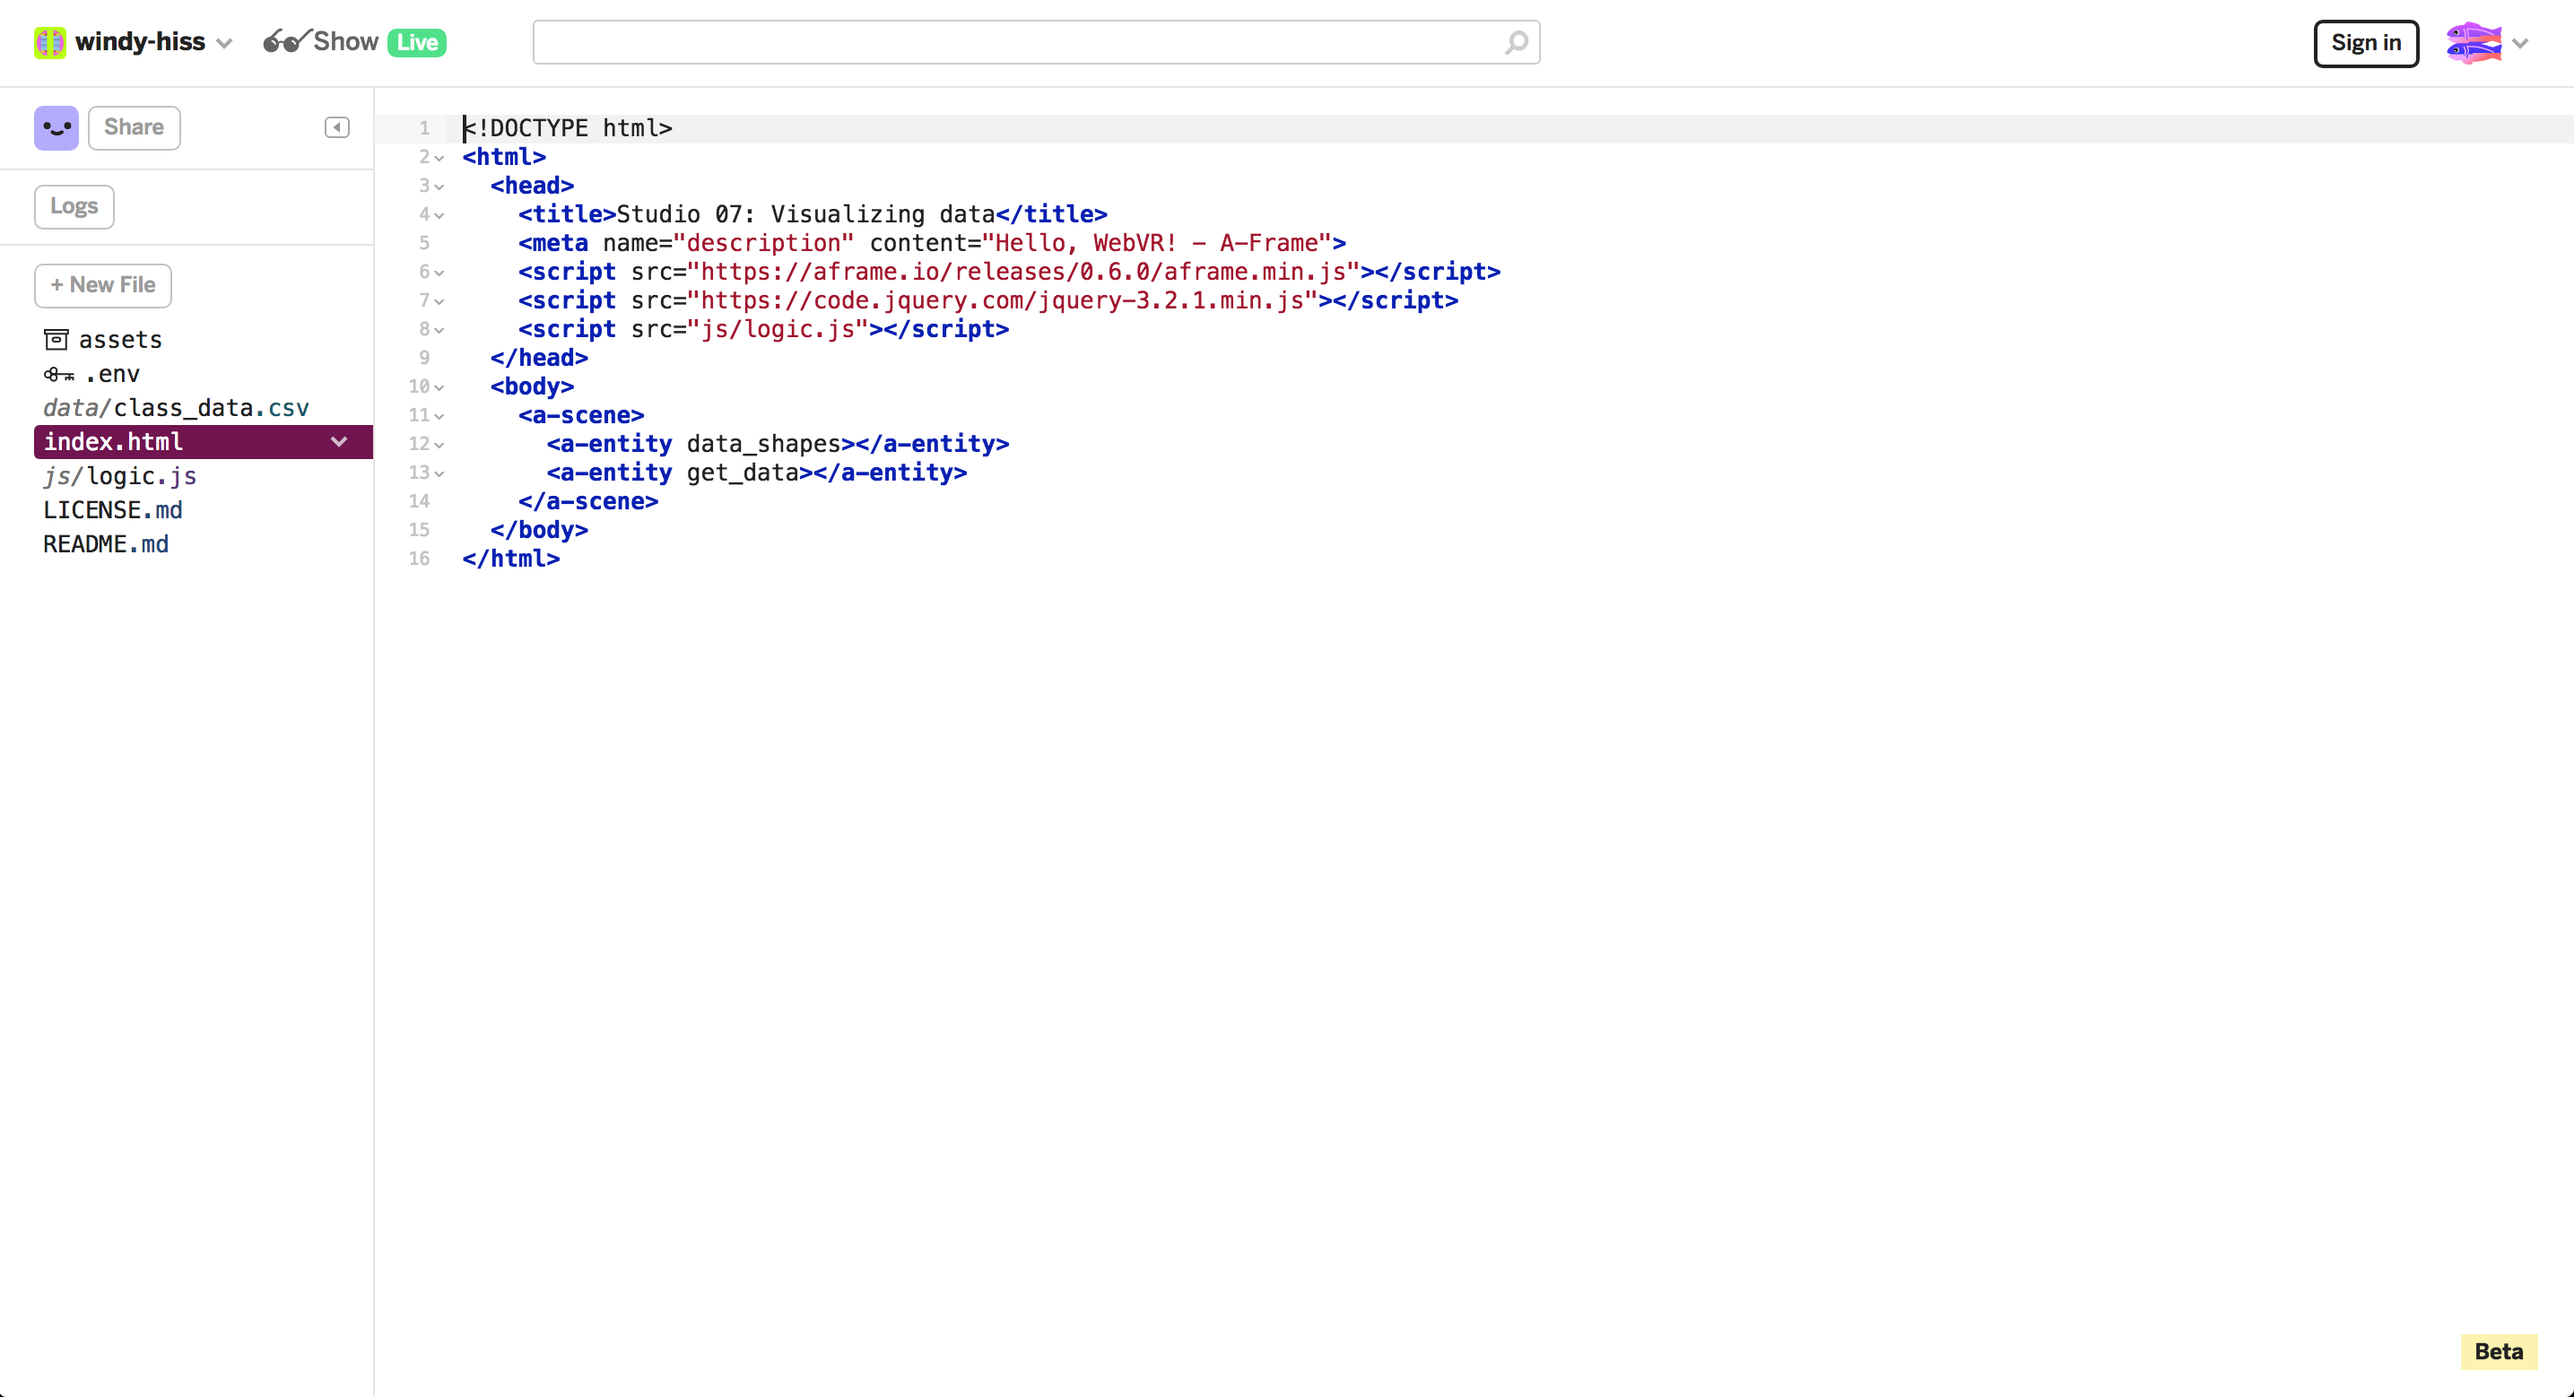
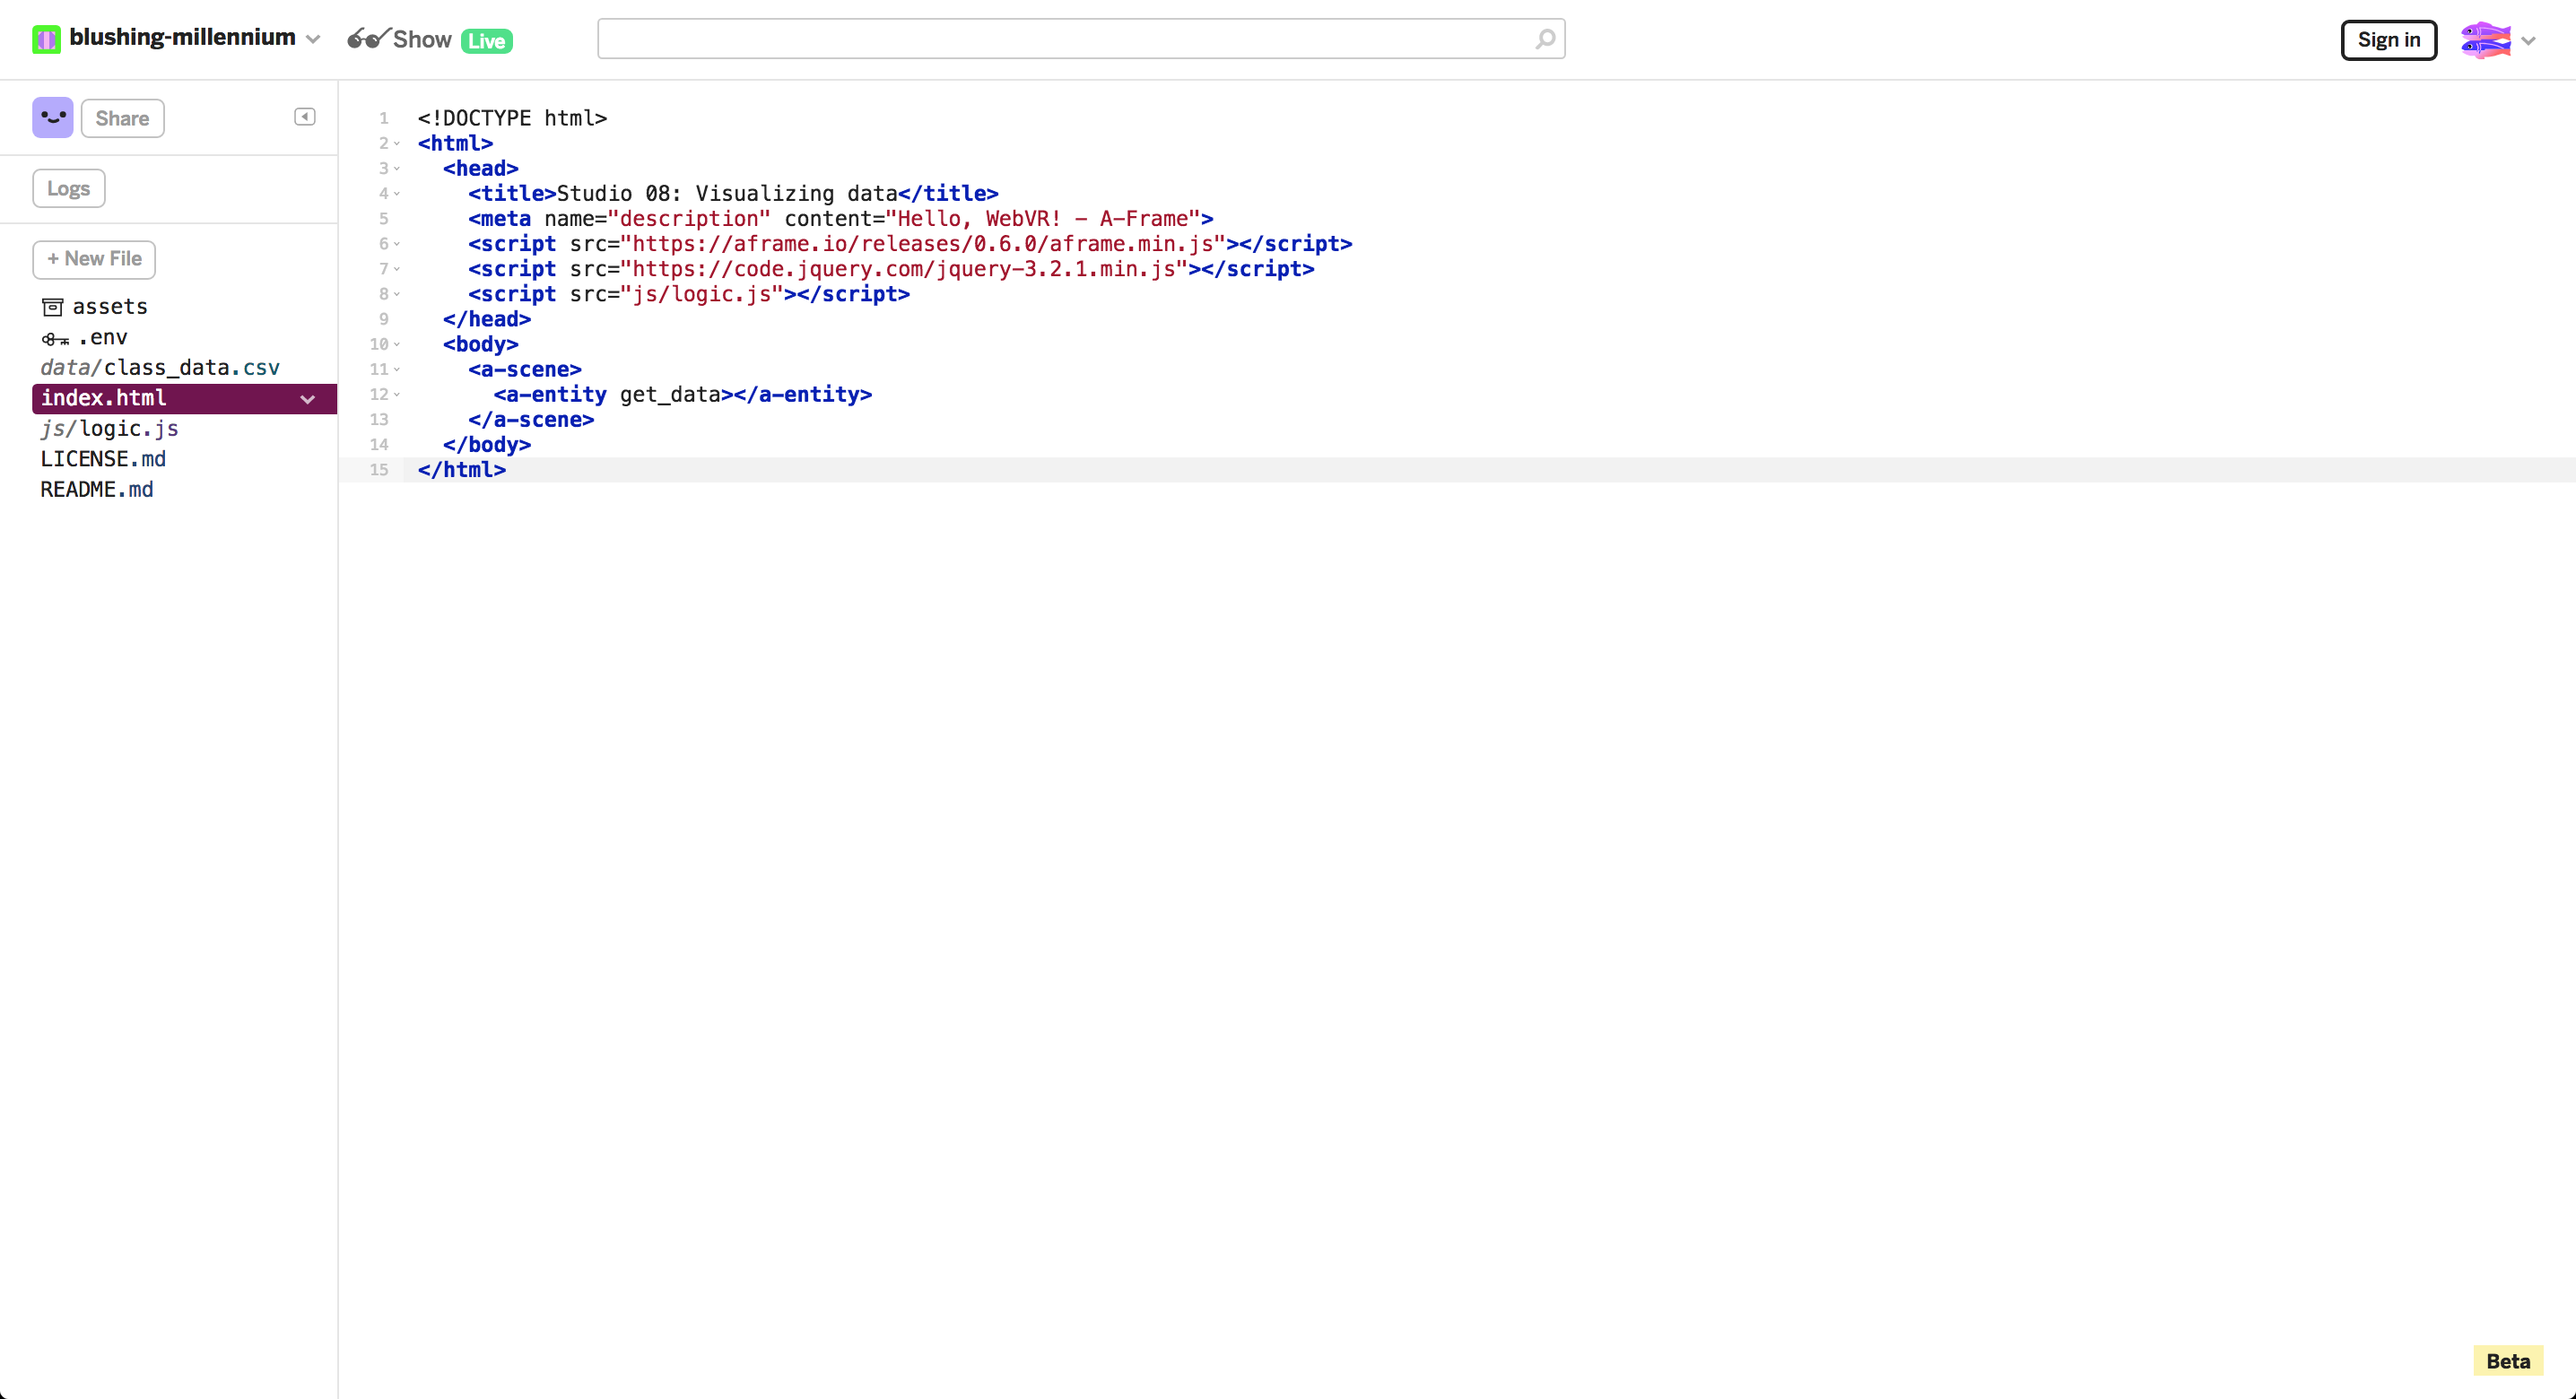
update

diff --git a/2017_Summer/Studios/08_Creating_Data-Driven_Shapes_for_VR_Using_A-Frame.md b/2017_Summer/Studios/08_Creating_Data-Driven_Shapes_for_VR_Using_A-Frame.md
@@ -85,7 +85,36 @@ Cool. Even though the browser provides decent 3-D navigation, let's see what the
 	* `js/logic.js` - A JavaScript file containing more complex logic for how we generate shapes. 
 * The JavaScript file, `js/logic.js`, appears in the `<head>` section of `index.html`. This enables the page to reference the logic in that file before it starts drawing anything in the `<body>` section.
 
-![JS Link](https://github.com/emilyfuhrman/datavis_design/blob/master/2017_Summer/Studios/Images/08/10_JS_Link.png)
+![JavaScript Link](https://github.com/emilyfuhrman/datavis_design/blob/master/2017_Summer/Studios/Images/08/10_JavaScript_Link.png)
+
+* Let's take a look at what this file contains. Click on `js/logic.js` in the left panel.
+
+![JavaScript Functions](https://github.com/emilyfuhrman/datavis_design/blob/master/2017_Summer/Studios/Images/08/11_JavaScript_Functions.png)
+
+* Inside are a bunch of complex functions. Do not worry about the syntax here -- all you need to know is the following:
+	* The declaration that encompasses everything starts with `AFRAME.registerComponent`. It is named `get-data`. We call this element in the HTML of the `index.html` file. 
+	* Inside this declaration are three functions: `init()`, `processData()`, and `drawShapes()`.
+	* The `init()` function controls the process of getting the CSV file that we can see in the left panel. 
+	* The `processData()` function parses it to make it into a JavaScript-friendly array.
+	* The `drawShapes()` function is what we will be editing, which makes graphics from the parsed data.
+* Inside the `drawShapes()` function is a `for-loop`, which cycles through our parsed CSV. This loop contains a lot of commented-out code at the moment, but that code is set up to draw a new shape every time the loop runs. 
+
+![Draw Shapes Function](https://github.com/emilyfuhrman/datavis_design/blob/master/2017_Summer/Studios/Images/08/12_Draw_Shapes_Function.png)
+
+* This syntax is different from the simple HTML that we saw in the `index.html` file of the first "Getting started" project. Here, since we are creating elements using JavaScript, we have to take a different route to attaching elements to the structure outlined in the front page.
+	* The first thing inside the function is a variable that grabs the overall "scene" within which we are drawing our shapes.
+	* The second thing assigns a variable name to the data that this function imports. By assigning them both to variables, we can more quickly access each, and our code will be cleaner. 
+	* The third thing is a `for-loop` that cycles through the imported data. 
+* Keep all of the code commented out for now. Right inside the `for-loop`, we are going to create some additional shortcuts to make our code cleaner.
+	* On the top line, paste the following line of code: `var entityEl = document.createElement('a-entity');`. This creates a new HTML entity in our HTML document for every time the loop loops, and assigns it an accessible variable.
+	* On the next line, paste the following line of code: `var current_elem = Number(sample_array[i][2]);`. This assigns the current value we are cycling through in the CSV to another accessible variable, and ensures that it is defined as a number, not a string. 
+* Navigate to the `Show [Live]` tab to see if anything is visible. Nothing should appear just yet, because we have not assigned the entity we have created any visual attributes. At this time, your code should look something like this:
+
+![Draw Shapes Function](https://github.com/emilyfuhrman/datavis_design/blob/master/2017_Summer/Studios/Images/08/13_Draw_Shapes_Function.png)
+
+
+
+
 
 
 
